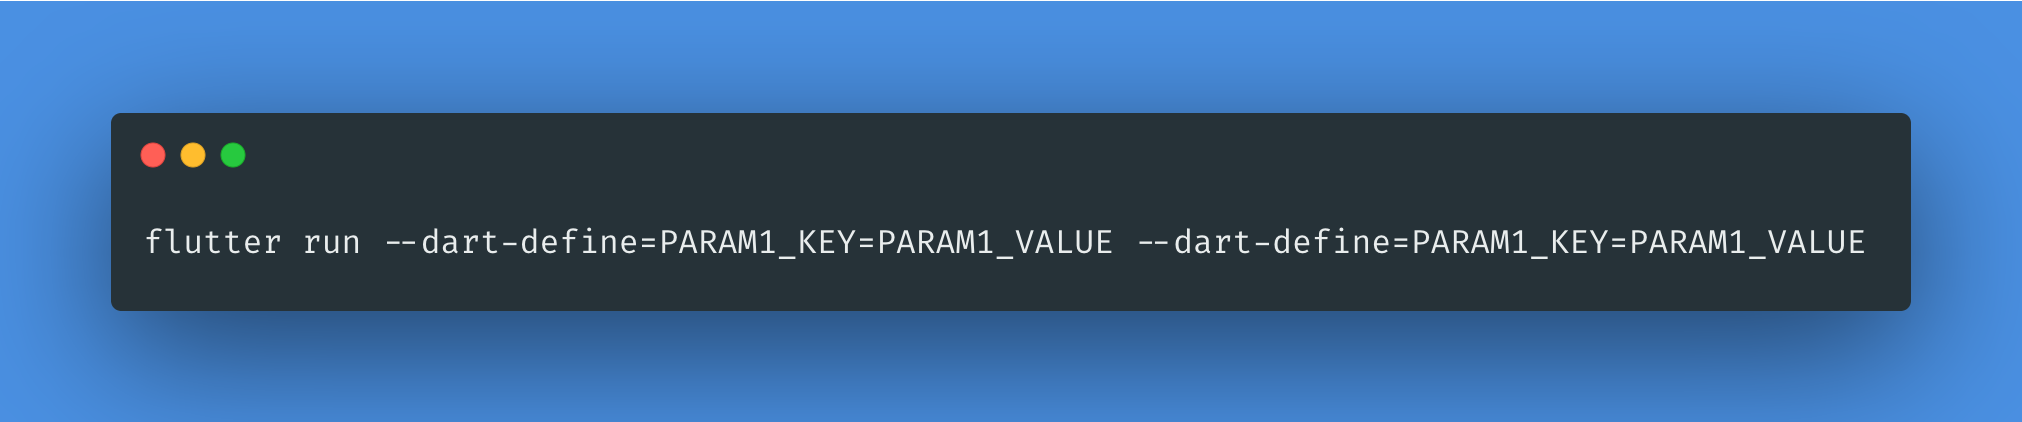
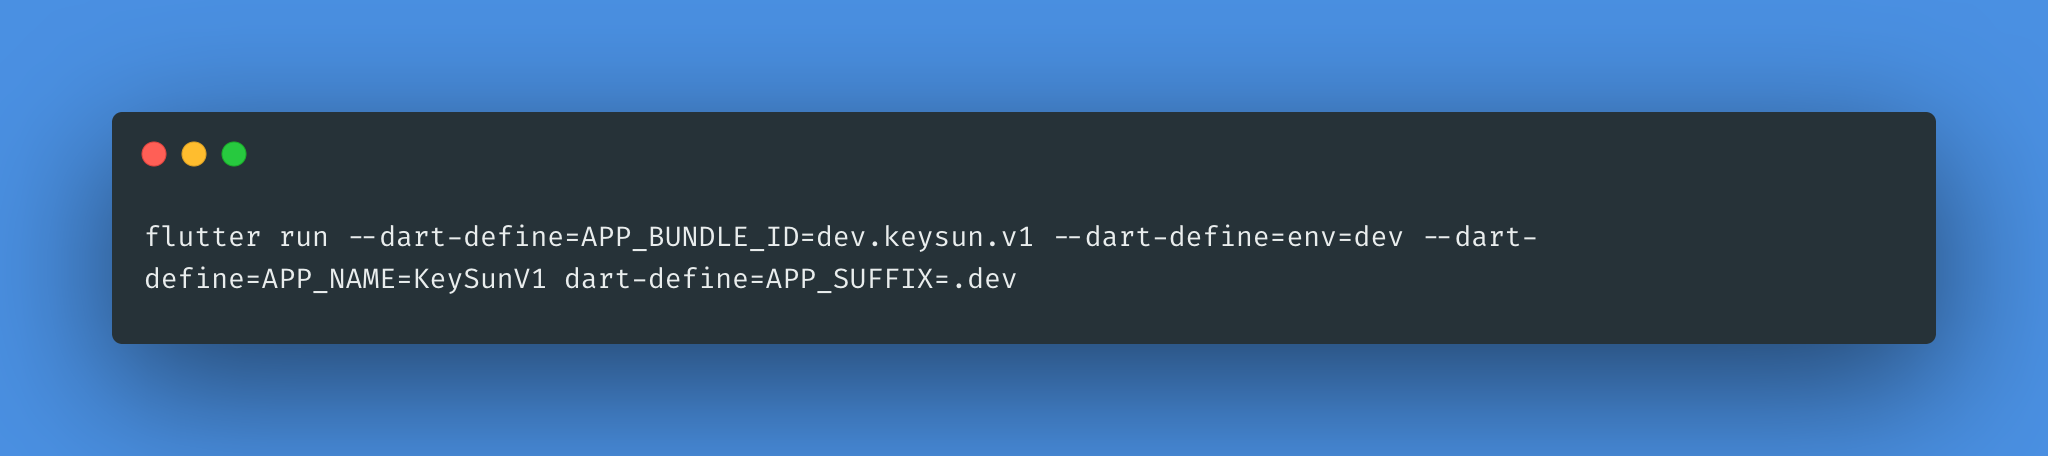
- Minor README.md changes

diff --git a/README.md b/README.md
@@ -1,34 +1,34 @@
-# flutter keysun template
-
-### How to build/run app flavor wise
-</br>
-
-[Ref. Link for flavoring flutter application](https://itnext.io/flutter-1-17-no-more-flavors-no-more-ios-schemas-command-argument-that-solves-everything-8b145ed4285d)
-
-</br>
+# Flutter Project Template by KeySun.dev
 
 ![flutter run command variables](assets/flutter_run_command_parameters.png)
 
-## Run or Build dev env
 
-flutter run --dart-define=env=dev --dart-define=APP_NAME=KeySunDev --dart-define=APP_SUFFIX=.dev
-
-flutter run --dart-define=env=dev --dart-define=APP_BUNDLE_ID=dev.keysun.flutterbaseapp --dart-define=APP_NAME=KeySunDev --dart-define=APP_SUFFIX=.dev
-
-## Run or Build pro env
-
-flutter run --dart-define=env=prod --dart-define=APP_NAME=KeySunPro --dart-define=APP_SUFFIX=
-
-## String variable help
-
-### Pass Primary Bundleid
+```
+/// Pass Primary Bundleid
 --dart-define=APP_BUNDLE_ID=dev.keysun.v1
 
-### Which Flavor You Want
+/// Which Flavor You Want [Flavor will help us to use the different baseURL + Key + etc.]
 --dart-define=env=dev
 
-### Pass App Name
+/// Pass App Name
 --dart-define=APP_NAME=KeySunV1
 
-### If you want to add suffix
+/// If you want to add suffix
 --dart-define=APP_SUFFIX=.dev
+
+/// Run App by passing variables
+flutter run --dart-define=APP_BUNDLE_ID=dev.keysun.v1 --dart-define=env=dev --dart-define=APP_NAME=KeySunV1 dart-define=APP_SUFFIX=.dev
+```
+
+
+Flutter & Dart
+```
+Flutter 1.22.3 • channel stable • https://github.com/flutter/flutter.git
+Framework • revision 8874f21e79 (2 weeks ago) • 2020-10-29 14:14:35 -0700
+Engine • revision a1440ca392
+Tools • Dart 2.10.3
+
+```
+
+
+[Ref. Link for flavoring flutter application](https://itnext.io/flutter-1-17-no-more-flavors-no-more-ios-schemas-command-argument-that-solves-everything-8b145ed4285d)
